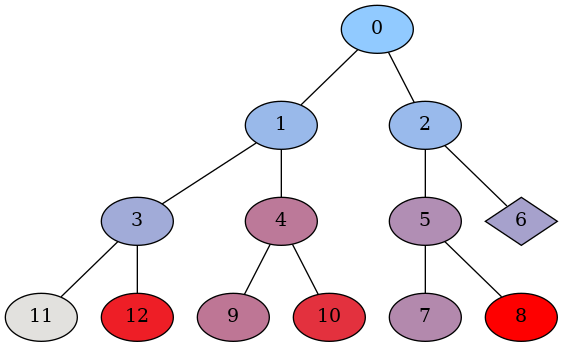
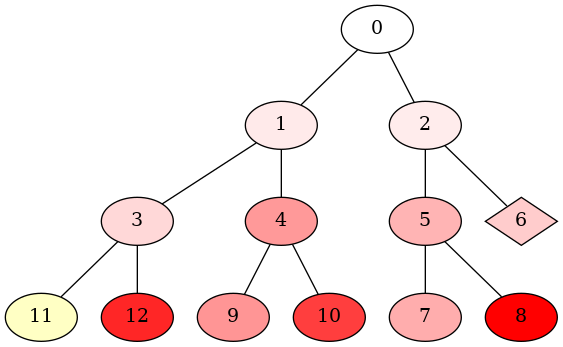
update colors

diff --git a/src/generators/Infeasible.py b/src/generators/Infeasible.py
@@ -1,5 +1,5 @@
 from .AbstractDotGenerator import AbstractDotGenerator
-from .colors import RED, GREEN, scale, get_color_between, as_hex
+from .colors import WHITE, GREEN, scale, get_color_between, as_hex
 
 class Infeasible(AbstractDotGenerator):
 
@@ -9,7 +9,8 @@ class Infeasible(AbstractDotGenerator):
         self.min = 0
         self.max = 0
         for entry in data:
-            if entry.sum_of_infeasibilities < 1e20 and self.max < entry.sum_of_infeasibilities: 
+            if entry.sum_of_infeasibilities >= 1e15: continue
+            if self.max < entry.sum_of_infeasibilities: 
                 self.max = entry.sum_of_infeasibilities
 
     def before(self):
@@ -24,7 +25,7 @@ class Infeasible(AbstractDotGenerator):
         if entry.sum_of_infeasibilities >= 1e20: return "white"
 
         score = scale(entry.sum_of_infeasibilities, self.min, self.max)
-        rgb = get_color_between(RED, GREEN, score)
+        rgb = get_color_between(GREEN, WHITE, score)
         
         return as_hex(rgb) 
 

diff --git a/src/generators/Debug.py b/src/generators/Debug.py
@@ -16,7 +16,7 @@ class Debug(AbstractDotGenerator):
     def before(self):
         return (
             "   splines=false;\n"
-            "   node [shape=none, style=filled];\n"
+            "   node [shape=none];\n"
             "   edge [dir=none]\n"
             ) 
 
@@ -25,7 +25,7 @@ class Debug(AbstractDotGenerator):
         color = "white"
         
         if entry.event == "1": color = as_hex(get_color_between(WHITE, GREEN, scale(entry.value, self.min, self.max)))
-        elif entry.event == "1": color = "red"
+        elif entry.event == "3": color = "red"
 
         return (f'<table cellspacing="0">'
                 f'<tr><td colspan="2" bgcolor="{color}">{entry.node_id}</td></tr>'

diff --git a/src/generators/CenteredDegradation.py b/src/generators/CenteredDegradation.py
@@ -1,5 +1,5 @@
 from .Degradation import Degradation
-from .colors import GREEN, LIGHTBLUE, RED, scale, get_color_between, as_hex
+from .colors import GREEN, WHITE, RED, scale, get_color_between, as_hex
 
 class CenteredDegradation(Degradation):
 
@@ -18,7 +18,7 @@ class CenteredDegradation(Degradation):
 
         if entry.value <= self.best_obj:
             score = scale(entry.value, self.min, self.best_obj)
-            rgb = get_color_between(LIGHTBLUE, GREEN, score)
+            rgb = get_color_between(WHITE, GREEN, score)
             return as_hex(rgb)
         
         score = scale(entry.value, self.best_obj, self.max)

diff --git a/src/generators/Degradation.py b/src/generators/Degradation.py
@@ -1,5 +1,5 @@
 from .AbstractDotGenerator import AbstractDotGenerator
-from .colors import LIGHTBLUE, RED, scale, get_color_between, as_hex
+from .colors import WHITE, RED, scale, get_color_between, as_hex
 
 class Degradation(AbstractDotGenerator):
 
@@ -24,7 +24,7 @@ class Degradation(AbstractDotGenerator):
     def get_node_fillcolor(self, entry):
 
         score = scale(entry.value, self.min, self.max)
-        rgb = get_color_between(LIGHTBLUE, RED, score)
+        rgb = get_color_between(WHITE, RED, score)
         
         return as_hex(rgb) 
 

diff --git a/src/generators/Temporal.py b/src/generators/Temporal.py
@@ -6,9 +6,11 @@ class Temporal(AbstractDotGenerator):
     def __init__(self, data): 
         super().__init__(data)
 
-        self.min = 0
+        self.min = 1e50
         self.max = 0
         for entry in data:
+            if self.min > entry.time:
+                self.min = entry.time
             if self.max < entry.time: 
                 self.max = entry.time
 
